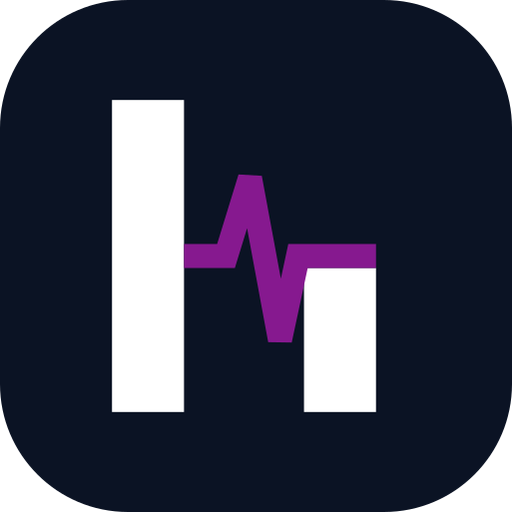
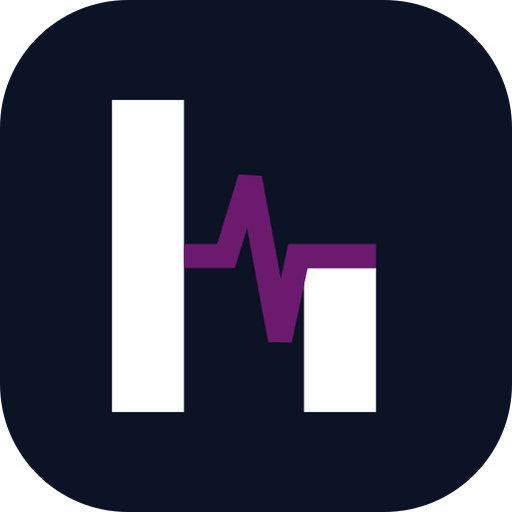
feat(ui): cool-white canvas, ink primary, ultramarine accent; tenant themes recolour the accent only (#1834)
Every page reads the new values through the shared tokens; no component
changes. The contrast gate pins the palette, asserts primary stays ink under
every tenant theme, keeps autofill invisible on cards, and requires the plum
chart series to separate from the accent in lightness.

The stored default theme "teal" carries the platform accent and is relabelled
"Helivanta default", since every workspace stores it. Plum is #6b1a6e, darker
than the spec's first value, which sat too close to ultramarine; the brand's
pharmacy variant moves with it.

Changed region(s): [[0.3438, 0.3438, 0.75, 0.6875]]

diff --git a/packages/ui/styles.css b/packages/ui/styles.css
@@ -1,5 +1,5 @@
-/* Helivanta color tokens — slate, light only: one palette for the public
-   site and the app.
+/* Helivanta color tokens — cool white, blue-black ink, one ultramarine accent
+   (#1834); light only: one palette for the public site and the app.
    Layer AFTER @tesserix/web/styles so these win.
    @tesserix/web's own light theme rule includes a `:not(.dark):not(.light)`
    fallback branch, whose two :not() pseudo-classes each add a class-level
@@ -13,47 +13,47 @@
 :root[data-theme="default"],
 [data-theme="default"] {
   /* Content surface */
-  --background: #f8fafc !important;
-  --foreground: #0f172a !important;
+  --background: #f6f8fb !important;
+  --foreground: #0b1324 !important;
   --card: #ffffff !important;
-  --card-foreground: #0f172a !important;
+  --card-foreground: #0b1324 !important;
   --popover: #ffffff !important;
-  --popover-foreground: #0f172a !important;
+  --popover-foreground: #0b1324 !important;
 
-  --primary: #334155 !important;
+  --primary: #0b1324 !important;
   --primary-foreground: #ffffff !important;
 
-  --secondary: #f1f5f9 !important;
-  --secondary-foreground: #334155 !important;
+  --secondary: #f0f4f8 !important;
+  --secondary-foreground: #0b1324 !important;
 
-  --muted: #f1f5f9 !important;
-  --muted-foreground: #475569 !important;
+  --muted: #f0f4f8 !important;
+  --muted-foreground: #4e5a6e !important;
 
-  --accent: #e2e8f0 !important;
-  --accent-foreground: #1e293b !important;
+  --accent: #e4eaff !important;
+  --accent-foreground: #1f3ab8 !important;
 
   --destructive: #c93b3b !important;
   --destructive-foreground: #ffffff !important;
 
-  --border: #cbd5e1 !important;
-  --input: #cbd5e1 !important;
-  --ring: #334155 !important;
+  --border: #dfe4ec !important;
+  --input: #c7cfdc !important;
+  --ring: #2b4ee6 !important;
 
   /* Sidebar — light rails */
-  --sidebar: #f1f5f9 !important;
-  --sidebar-foreground: #0f172a !important;
-  --sidebar-primary: #334155 !important;
+  --sidebar: #ffffff !important;
+  --sidebar-foreground: #0b1324 !important;
+  --sidebar-primary: #0b1324 !important;
   --sidebar-primary-foreground: #ffffff !important;
-  --sidebar-accent: #e2e8f0 !important;
-  --sidebar-accent-foreground: #0f172a !important;
-  --sidebar-border: #cbd5e1 !important;
-  --sidebar-ring: #334155 !important;
+  --sidebar-accent: #e4eaff !important;
+  --sidebar-accent-foreground: #1f3ab8 !important;
+  --sidebar-border: #dfe4ec !important;
+  --sidebar-ring: #2b4ee6 !important;
   --sidebar-rail: #ffffff !important;
 
   /* Helivanta semantic tokens */
-  --hms-accent: #334155 !important;
-  --hms-accent-strong: #1e293b !important;
-  --hms-accent-dim: #e2e8f0 !important;
+  --hms-accent: #2b4ee6 !important;
+  --hms-accent-strong: #1f3ab8 !important;
+  --hms-accent-dim: #e4eaff !important;
   --hms-good: #0f7a4f !important;
   --hms-warn: #a85503 !important;
   --hms-crit: #c93b3b !important;
@@ -61,18 +61,18 @@
   --hms-rose-tint: #fbedf1 !important;
   --hms-amber: #92400e !important;
   --hms-amber-tint: #fbf3e4 !important;
-  --hms-violet: #4f46e5 !important;
-  --hms-violet-tint: #eeeefb !important;
-  --hms-sky: #1d5da8 !important;
-  --hms-sky-tint: #e7effa !important;
-  --hms-track: #e7ebf1 !important;
+  --hms-violet: #6b1a6e !important;
+  --hms-violet-tint: #f7e9f9 !important;
+  --hms-sky: #0e7490 !important;
+  --hms-sky-tint: #e3f3f8 !important;
+  --hms-track: #e3e8ef !important;
 
   /* Light slate supporting bands. */
-  --hms-band: #f1f5f9 !important;
-  --hms-band-ink: #0f172a !important;
-  --hms-band-muted: #475569 !important;
-  --hms-band-line: #475569 !important;
-  --hms-shadow: #334155 !important;
+  --hms-band: #f0f4f8 !important;
+  --hms-band-ink: #0b1324 !important;
+  --hms-band-muted: #4e5a6e !important;
+  --hms-band-line: #4e5a6e !important;
+  --hms-shadow: #0b1324 !important;
 }
 
 /* @tesserix/web ships an UNLAYERED base rule that forces
@@ -149,25 +149,21 @@ select:autofill {
 }
 
 [data-brand-theme="teal"] {
-  --hms-accent: #334155;
-  --hms-accent-strong: #1e293b;
-  --hms-accent-dim: #e2e8f0;
-  --primary: #334155;
-  --primary-foreground: #ffffff;
+  /* "teal" is the stored default for every workspace (DEFAULT_BRANDING), so it
+     carries the platform accent; the value name predates #1834. */
+  --hms-accent: #2b4ee6;
+  --hms-accent-strong: #1f3ab8;
+  --hms-accent-dim: #e4eaff;
 }
 [data-brand-theme="blue"] {
   --hms-accent: #1d5da8;
   --hms-accent-strong: #17497f;
   --hms-accent-dim: #e7effa;
-  --primary: #1d5da8;
-  --primary-foreground: #ffffff;
 }
 [data-brand-theme="indigo"] {
   --hms-accent: #5352a6;
   --hms-accent-strong: #403f83;
   --hms-accent-dim: #eeedf9;
-  --primary: #5352a6;
-  --primary-foreground: #ffffff;
 }
 
 /* Public authentication stays light independently of the clinical workspace theme. */
@@ -179,9 +175,9 @@ select:autofill {
 }
 .login-content {
   --auth-accent: var(--hms-accent);
-  --auth-button: var(--hms-accent);
+  --auth-button: var(--primary);
   --auth-button-foreground: var(--primary-foreground);
-  --auth-button-shadow: 0 2px 4px color-mix(in srgb, var(--hms-accent) 20%, transparent);
+  --auth-button-shadow: 0 2px 4px color-mix(in srgb, var(--primary) 20%, transparent);
   --auth-input: var(--card);
   --auth-input-border: var(--input);
   --auth-foreground: var(--foreground);
@@ -248,9 +244,11 @@ select:autofill {
   background: var(--card);
 }
 .login-page [data-brand-theme="teal"] {
-  --hms-accent: #334155;
-  --hms-accent-strong: #1e293b;
-  --hms-accent-dim: #e2e8f0;
+  /* "teal" is the stored default for every workspace (DEFAULT_BRANDING), so it
+     carries the platform accent; the value name predates #1834. */
+  --hms-accent: #2b4ee6;
+  --hms-accent-strong: #1f3ab8;
+  --hms-accent-dim: #e4eaff;
 }
 .login-page [data-brand-theme="blue"] {
   --hms-accent: #1d5da8;

diff --git a/packages/ui/src/contrast.test.ts b/packages/ui/src/contrast.test.ts
@@ -44,10 +44,29 @@ describe("contrast()", () => {
   });
 });
 
-it("is slate", () => {
-  expect(root["--background"]).toBe("#f8fafc");
-  expect(root["--foreground"]).toBe("#0f172a");
-  expect(root["--primary"]).toBe("#334155");
+it("is cool white, blue-black ink and ultramarine (#1834)", () => {
+  expect(root["--background"]).toBe("#f6f8fb");
+  expect(root["--foreground"]).toBe("#0b1324");
+  expect(root["--primary"]).toBe("#0b1324");
+  expect(root["--hms-accent"]).toBe("#2b4ee6");
+});
+
+// Primary actions are ink under every tenant theme; a theme recolours the
+// accent trio only (#1834 spec D2).
+it.each(["teal", "blue", "indigo"])("brand %s leaves primary as ink", (brand) => {
+  expect(tokensOf(`[data-brand-theme="${brand}"]`)["--primary"]).toBeUndefined();
+});
+
+// Autofill paints --background behind text in a --card field; the two must be
+// close enough that the painted box is invisible.
+it("canvas and card are near-identical for autofill", () => {
+  expect(contrast(root["--background"], root["--card"])).toBeLessThan(1.1);
+});
+
+// Plum (IPD) and the accent (OPD) are the one chart pair in the same hue
+// family; they must still separate for a reader who cannot rely on hue.
+it("plum separates from the accent", () => {
+  expect(contrast(root["--hms-violet"], root["--hms-accent"])).toBeGreaterThanOrEqual(1.6);
 });
 
 const PAIRS: [fg: string, bg: string, min: number][] = [
@@ -88,6 +107,8 @@ const PAIRS: [fg: string, bg: string, min: number][] = [
     ]),
   ),
   ["--muted-foreground", "--accent", BODY],
+  ["--muted-foreground", "--secondary", BODY],
+  ["--hms-accent", "--hms-accent-dim", BODY],
 ];
 
 it.each(PAIRS)("%s on %s passes AA", (fg, bg, min) => {

diff --git a/apps/shell/app/(workspace)/settings/branding/page.tsx b/apps/shell/app/(workspace)/settings/branding/page.tsx
@@ -110,7 +110,7 @@ function BrandingEditor({ initial }: { initial: Branding }) {
               id="brand-theme"
               label="Medical theme"
               options={[
-                { value: "teal", label: "Clinical teal" },
+                { value: "teal", label: "Helivanta default" },
                 { value: "blue", label: "Care blue" },
                 { value: "indigo", label: "Calm indigo" },
               ]}
@@ -172,7 +172,7 @@ function BrandingEditor({ initial }: { initial: Branding }) {
                   ••••••••••••
                 </Panel>
               </div>
-              <div className="rounded-lg bg-(--hms-accent) p-3 text-center text-sm font-medium text-primary-foreground">
+              <div className="rounded-lg bg-primary p-3 text-center text-sm font-medium text-primary-foreground">
                 Sign in
               </div>
               <p className="mt-4 text-center text-xs text-muted-foreground">

diff --git a/apps/shell/app/globals.css b/apps/shell/app/globals.css
@@ -20,11 +20,11 @@
   --radius-md: 0.5rem;
   --radius-lg: 0.75rem;
   --radius-xl: 1rem;
-  --shadow-xs: 0 1px 2px 0 rgb(15 23 42 / 0.05);
-  --shadow-sm: 0 1px 2px 0 rgb(15 23 42 / 0.05), 0 1px 3px 0 rgb(15 23 42 / 0.04);
-  --shadow-md: 0 4px 12px -2px rgb(15 23 42 / 0.08);
-  --shadow-lg: 0 12px 32px -12px rgb(15 23 42 / 0.18);
-  --shadow-xl: 0 20px 48px -16px rgb(15 23 42 / 0.22);
+  --shadow-xs: 0 1px 2px 0 rgb(11 19 36 / 0.05);
+  --shadow-sm: 0 1px 2px 0 rgb(11 19 36 / 0.05), 0 1px 3px 0 rgb(11 19 36 / 0.04);
+  --shadow-md: 0 4px 12px -2px rgb(11 19 36 / 0.08);
+  --shadow-lg: 0 12px 32px -12px rgb(11 19 36 / 0.18);
+  --shadow-xl: 0 20px 48px -16px rgb(11 19 36 / 0.22);
 }
 
 .branding-preview > div {

diff --git a/docs/superpowers/plans/2026-11-24-app-look-tokens.md b/docs/superpowers/plans/2026-11-24-app-look-tokens.md
@@ -167,7 +167,7 @@ Then open the CI run for the push and confirm the web job's build step is green 
 - Test: `packages/ui/src/contrast.test.ts`
 
 **Interfaces:**
-- Produces: the token values in spec D1 and D3, verbatim. Later tasks and the e2e rewrite depend on `--primary #0b1324`, `--hms-accent #2b4ee6`, and the tenant accents `teal #0e6b63`, `blue #1d5da8`, `indigo #5352a6` with dims `#d9eeea`, `#e7effa`, `#eeedf9`.
+- Produces: the token values in spec D1 and D3, verbatim. Later tasks and the e2e rewrite depend on `--primary #0b1324`, `--hms-accent #2b4ee6`, and the tenant accents `teal #2b4ee6` (default, Task 2 ruling), `blue #1d5da8`, `indigo #5352a6` with dims `#d9eeea`, `#e7effa`, `#eeedf9`.
 
 - [ ] **Step 1: Write the failing tests**
 
@@ -207,9 +207,9 @@ Expected: FAIL on the pin test (`#f8fafc` is not `#f6f8fb`) and on the `brand %s
 
 - [ ] **Step 3: Set the values in `packages/ui/styles.css`**
 
-Root scope, every value from spec D1 with `!important` kept: `--background #f6f8fb`, `--foreground #0b1324`, `--card-foreground #0b1324`, `--popover-foreground #0b1324`, `--primary #0b1324`, `--secondary #f0f4f8`, `--secondary-foreground #0b1324`, `--muted #f0f4f8`, `--muted-foreground #4e5a6e`, `--accent #e4eaff`, `--accent-foreground #1f3ab8`, `--border #dfe4ec`, `--input #c7cfdc`, `--ring #2b4ee6`, `--sidebar #ffffff`, `--sidebar-foreground #0b1324`, `--sidebar-primary #0b1324`, `--sidebar-accent #e4eaff`, `--sidebar-accent-foreground #1f3ab8`, `--sidebar-border #dfe4ec`, `--sidebar-ring #2b4ee6`, `--sidebar-rail #ffffff`, `--hms-accent #2b4ee6`, `--hms-accent-strong #1f3ab8`, `--hms-accent-dim #e4eaff`, `--hms-violet #86198f`, `--hms-violet-tint #f7e9f9`, `--hms-sky #0e7490`, `--hms-sky-tint #e3f3f8`, `--hms-track #e3e8ef`, `--hms-band #f0f4f8`, `--hms-band-ink #0b1324`, `--hms-band-muted #4e5a6e`, `--hms-band-line #4e5a6e`, `--hms-shadow #0b1324`. Unchanged: `--card`, `--popover`, `--primary-foreground`, `--destructive*`, `--hms-good`, `--hms-warn`, `--hms-crit`, `--hms-rose*`, `--hms-amber*`.
+Root scope, every value from spec D1 with `!important` kept: `--background #f6f8fb`, `--foreground #0b1324`, `--card-foreground #0b1324`, `--popover-foreground #0b1324`, `--primary #0b1324`, `--secondary #f0f4f8`, `--secondary-foreground #0b1324`, `--muted #f0f4f8`, `--muted-foreground #4e5a6e`, `--accent #e4eaff`, `--accent-foreground #1f3ab8`, `--border #dfe4ec`, `--input #c7cfdc`, `--ring #2b4ee6`, `--sidebar #ffffff`, `--sidebar-foreground #0b1324`, `--sidebar-primary #0b1324`, `--sidebar-accent #e4eaff`, `--sidebar-accent-foreground #1f3ab8`, `--sidebar-border #dfe4ec`, `--sidebar-ring #2b4ee6`, `--sidebar-rail #ffffff`, `--hms-accent #2b4ee6`, `--hms-accent-strong #1f3ab8`, `--hms-accent-dim #e4eaff`, `--hms-violet #6b1a6e`, `--hms-violet-tint #f7e9f9`, `--hms-sky #0e7490`, `--hms-sky-tint #e3f3f8`, `--hms-track #e3e8ef`, `--hms-band #f0f4f8`, `--hms-band-ink #0b1324`, `--hms-band-muted #4e5a6e`, `--hms-band-line #4e5a6e`, `--hms-shadow #0b1324`. Unchanged: `--card`, `--popover`, `--primary-foreground`, `--destructive*`, `--hms-good`, `--hms-warn`, `--hms-crit`, `--hms-rose*`, `--hms-amber*`.
 
-Tenant blocks, both scopes: delete the `--primary` and `--primary-foreground` lines; set `teal` to `#0e6b63 / #0a4f49 / #d9eeea`, keep `blue` `#1d5da8 / #17497f / #e7effa` and `indigo` `#5352a6 / #403f83 / #eeedf9`.
+Tenant blocks, both scopes: delete the `--primary` and `--primary-foreground` lines; set `teal` (the default) to the platform accent `#2b4ee6 / #1f3ab8 / #e4eaff`, keep `blue` `#1d5da8 / #17497f / #e7effa` and `indigo` `#5352a6 / #403f83 / #eeedf9`.
 
 `.login-content`: `--auth-button: var(--primary);` and `--auth-button-shadow: 0 2px 4px color-mix(in srgb, var(--primary) 20%, transparent);`.
 
@@ -320,7 +320,7 @@ git push
 - Modify: `e2e/tests/login-appearance.spec.ts`
 
 **Interfaces:**
-- Consumes: Task 2's values. Button `rgb(11, 19, 36)` under every theme. Accents: teal `rgb(14, 107, 99)`, blue `rgb(29, 93, 168)`, indigo `rgb(83, 82, 166)`.
+- Consumes: Task 2's values. Button `rgb(11, 19, 36)` under every theme. Accents: teal `rgb(43, 78, 230)` (the default carries the platform accent, Task 2 ruling), blue `rgb(29, 93, 168)`, indigo `rgb(83, 82, 166)`.
 
 - [ ] **Step 1: Rewrite the palette table and the assertions**
 
@@ -329,7 +329,7 @@ Replace the `palettes` constant with:
 ```ts
 const INK = "rgb(11, 19, 36)";
 const palettes = [
-  { theme: "teal", accent: "rgb(14, 107, 99)" },
+  { theme: "teal", accent: "rgb(43, 78, 230)" },
   { theme: "blue", accent: "rgb(29, 93, 168)" },
   { theme: "indigo", accent: "rgb(83, 82, 166)" },
 ] as const;

diff --git a/docs/superpowers/specs/2026-11-24-app-look-tokens-design.md b/docs/superpowers/specs/2026-11-24-app-look-tokens-design.md
@@ -143,7 +143,7 @@ pair is critical red on the muted surface at 4.55:1.
 | `--hms-good` / `--hms-warn` / `--hms-crit` | | unchanged | clinical status |
 | `--hms-rose` / tint | `#c13b5e` / `#fbedf1` | unchanged | chart |
 | `--hms-amber` / tint | `#92400e` / `#fbf3e4` | unchanged | chart |
-| `--hms-violet` / tint | `#4f46e5` / `#eeeefb` | `#86198f` / `#f7e9f9` | chart; moved off the accent's hue |
+| `--hms-violet` / tint | `#4f46e5` / `#eeeefb` | `#6b1a6e` / `#f7e9f9` | chart; moved off the accent's hue and darkened to separate from it in lightness (1.67:1) |
 | `--hms-sky` / tint | `#1d5da8` / `#e7effa` | `#0e7490` / `#e3f3f8` | chart; moved off blue |
 | `--hms-track` | `#e7ebf1` | `#e3e8ef` | progress track |
 | `--hms-band` | `#f1f5f9` | `#f0f4f8` | home-page bands |
@@ -173,13 +173,17 @@ accent on the canvas and on its tint.
 
 | Theme | `--hms-accent` | `--hms-accent-strong` | `--hms-accent-dim` |
 | --- | --- | --- | --- |
-| `teal` | `#0e6b63` | `#0a4f49` | `#d9eeea` |
+| `teal` (the default) | `#2b4ee6` | `#1f3ab8` | `#e4eaff` |
 | `blue` | `#1d5da8` | `#17497f` | `#e7effa` |
 | `indigo` | `#5352a6` | `#403f83` | `#eeedf9` |
 
-`teal` is a real teal again; since #1412 it had been slate, which made the
-default and the teal theme indistinguishable. `blue` and `indigo` keep their
-values. The enum in `packages/api/src/workspace.ts` is unchanged.
+Amended during implementation: `teal` is the theme every workspace stores
+by default (`DEFAULT_BRANDING` and the Go default), so it carries the
+platform accent rather than a real teal; a real teal would have turned every
+default workspace teal. Its settings label becomes "Helivanta default". The
+values above apply to `blue` and `indigo`; `teal` reads `#2b4ee6`, `#1f3ab8`,
+`#e4eaff`. A tenant-selectable teal would need a new enum value and is not in
+this slice. The enum in `packages/api/src/workspace.ts` is unchanged.
 
 ### D4 Typeface
 

diff --git a/docs/superpowers/specs/2026-11-24-brand-mark-and-assets-design.md b/docs/superpowers/specs/2026-11-24-brand-mark-and-assets-design.md
@@ -100,7 +100,7 @@ not invent a third lockup.
 
 Products are the same geometry with the pulse in the product hue, and the
 hue set is the chart token set from #1834: pharmacy `--hms-violet`
-(`#86198f`), lab `--hms-sky` (`#0e7490`), supply `--hms-amber` (`#92400e`),
+(`#6b1a6e`), lab `--hms-sky` (`#0e7490`), supply `--hms-amber` (`#92400e`),
 emergency `--hms-rose` (`#c13b5e`). The platform and the hospital core use
 the accent. Product lockups add the product word after "helivanta" in the
 product hue at weight 600; product icons and favicons carry no letters, since

diff --git a/brand/README.md b/brand/README.md
@@ -39,6 +39,6 @@ node brand/generate.mjs "$(pnpm --filter @helivanta/shell exec node -p "require.
   chart token for that area. Product lockups add the product word; product
   icons carry no letters.
 - Tokens: ink `#0b1324`, accent `#2b4ee6` (`#7aa0ff` on ink), canvas
-  `#f6f8fb`; pharmacy `#86198f`, lab `#0e7490`, supply `#92400e`,
+  `#f6f8fb`; pharmacy `#6b1a6e`, lab `#0e7490`, supply `#92400e`,
   emergency `#c13b5e`. These mirror `packages/ui/styles.css` after #1834.
 - The wordmark face is Anek Latin (OFL, `apps/shell/app/fonts/OFL.txt`).
